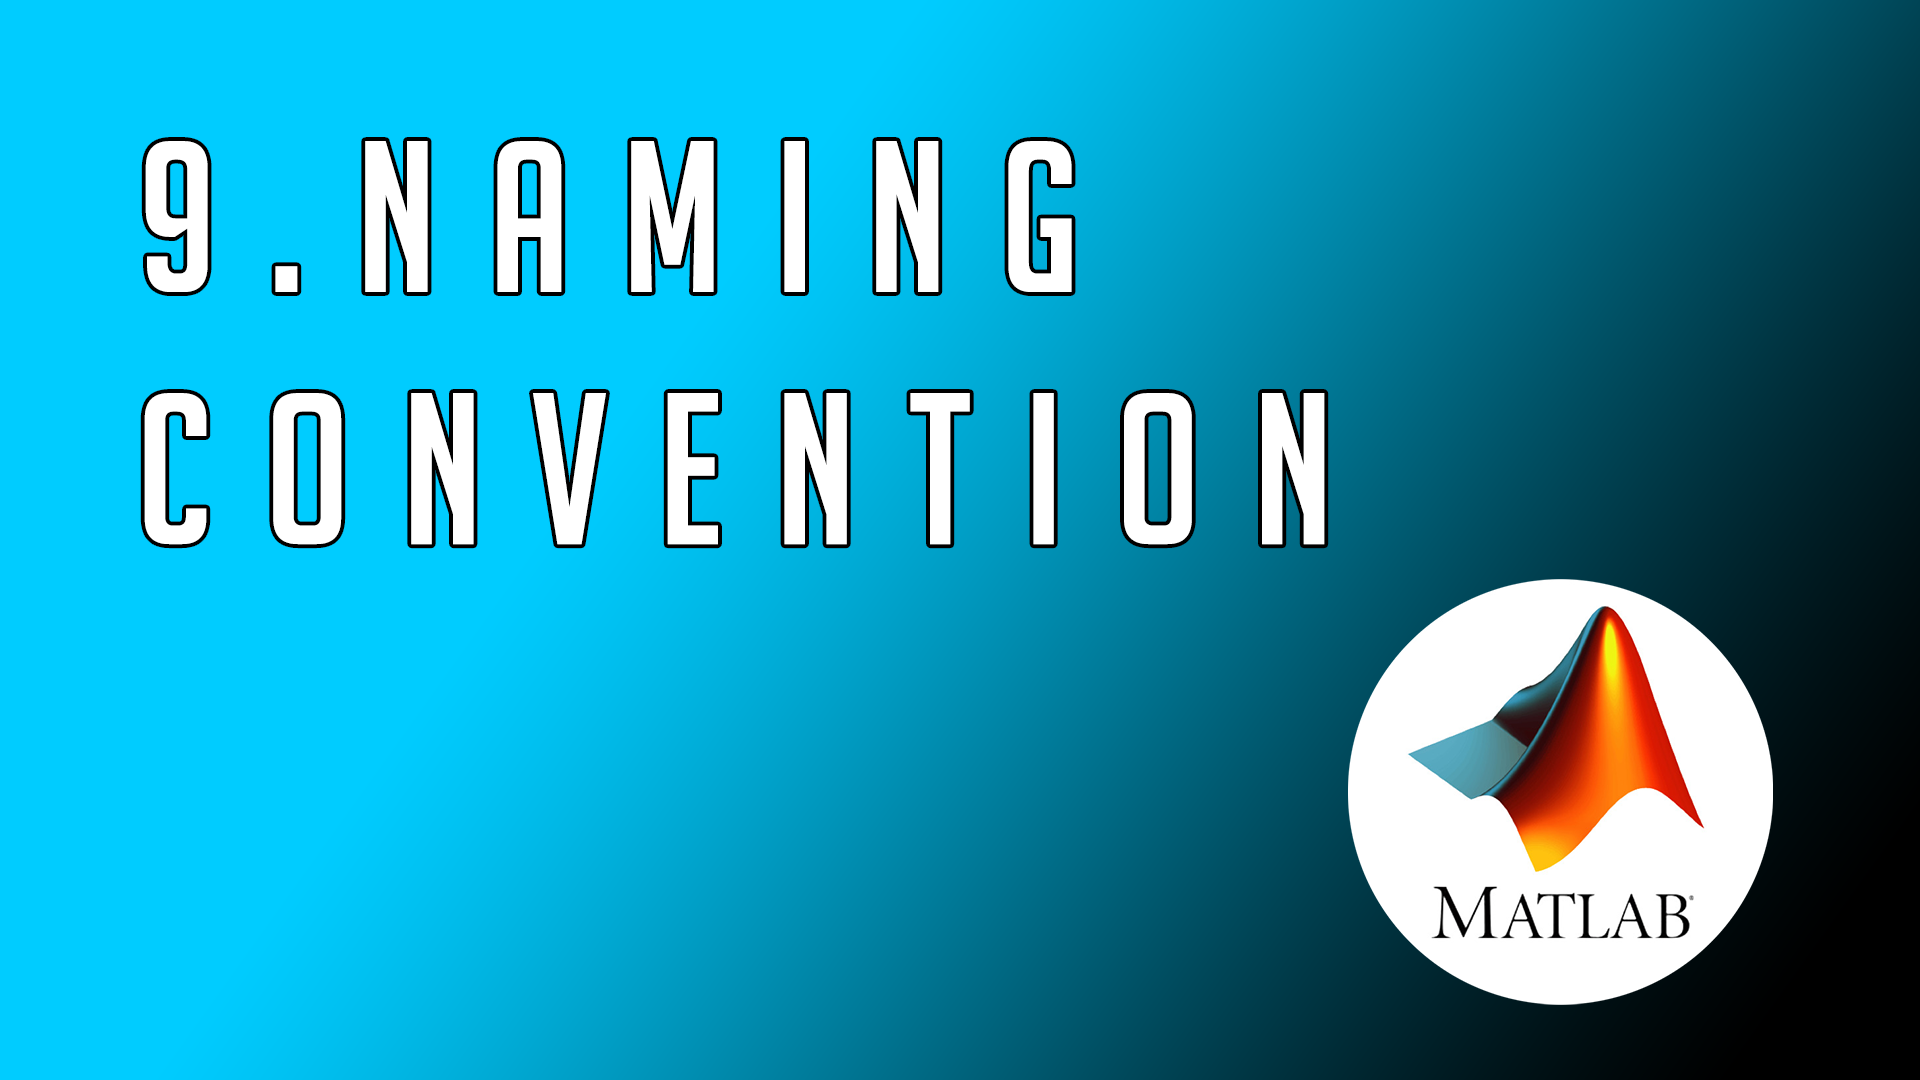
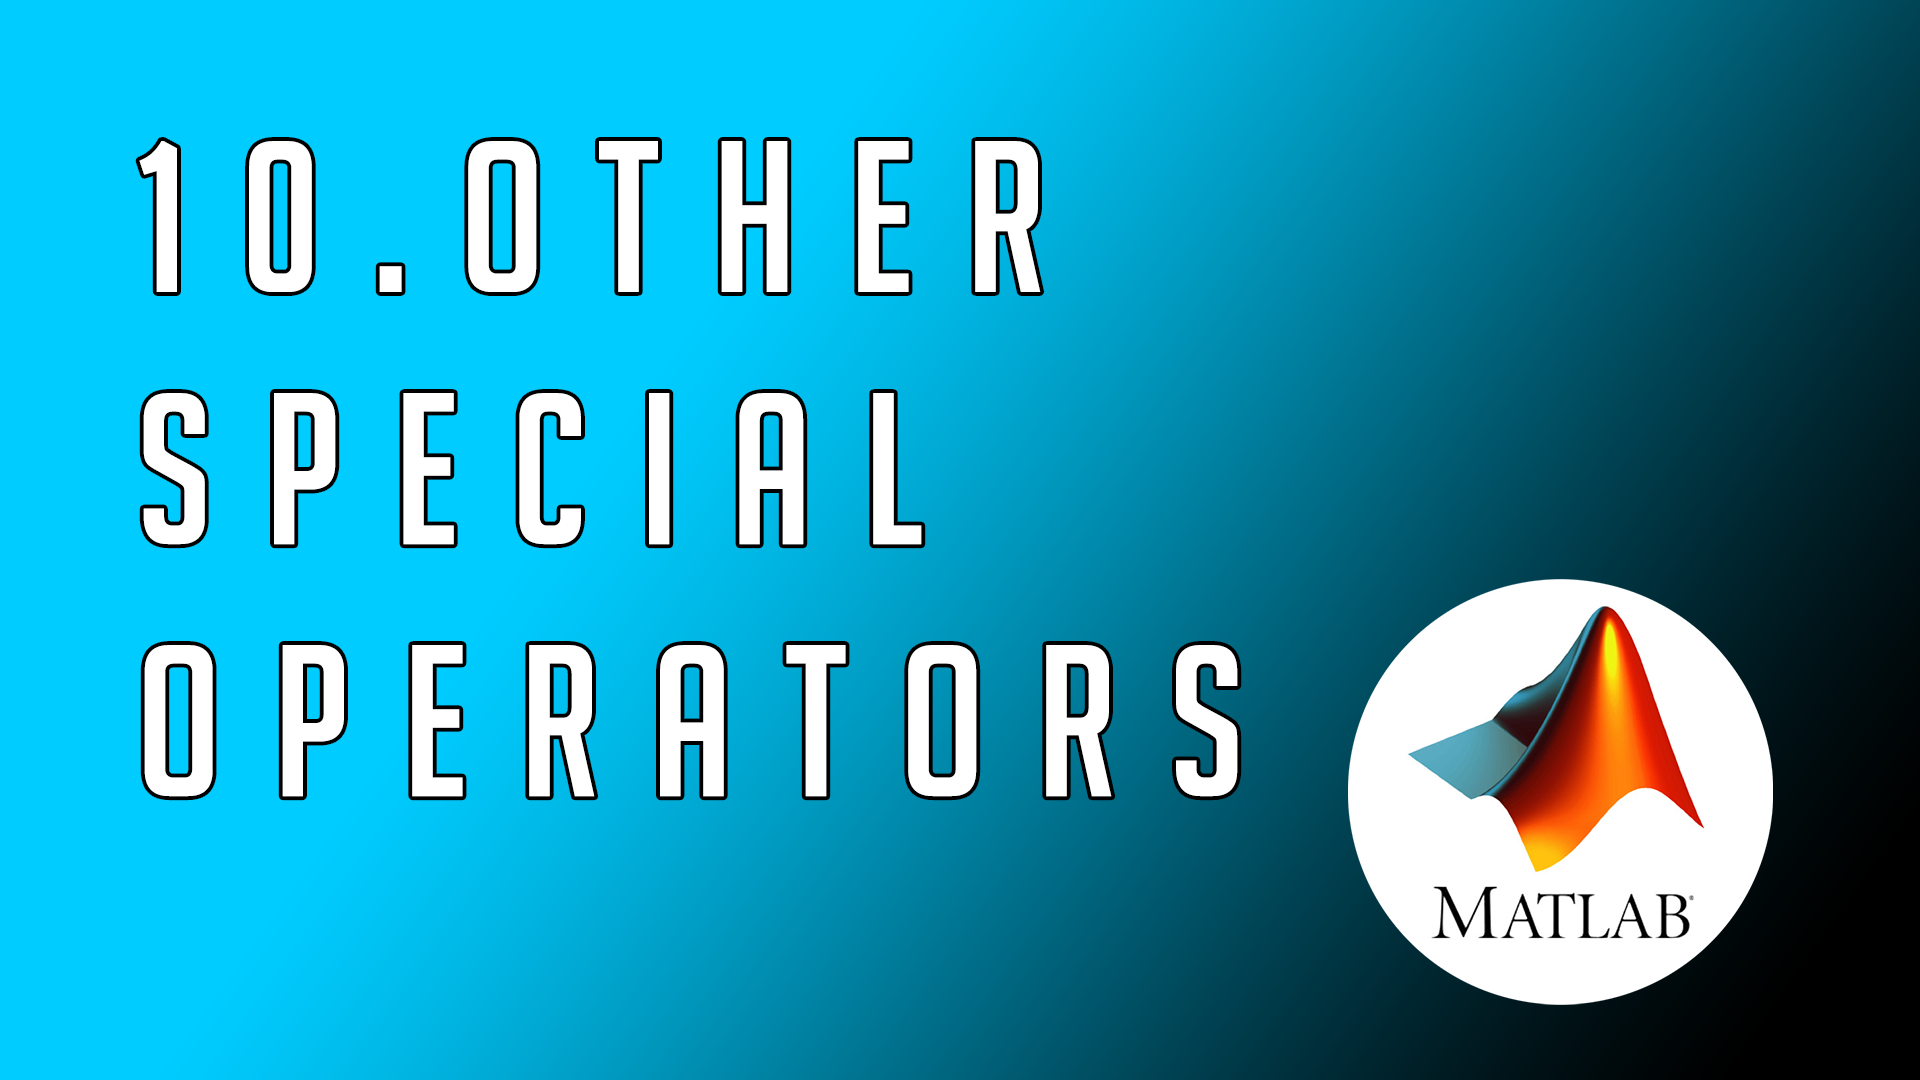
Update
Added 9th video.

diff --git a/Code/NinthVideo.m b/Code/NinthVideo.m
@@ -1,0 +1,47 @@
+% MATLAB Video #9 - Special Operators
+% October, 26th 2019
+% Jousef Murad - www.engineered-mind.com
+% MATLAB Version - R2018b
+
+clc, clear, close all
+
+%% Section 1 abs-function
+
+abs(-1);
+abs(5);
+tmp1 = randn(10);
+abs(tmp1);
+
+%% Section 2 sign-function
+
+sign(-100);
+sign(30);
+sign(0);
+sign(tmp1);
+
+%% Section 3 - Create Polynomials
+
+% Create a polynomial of 2nd order
+
+p = [1 3 2]; %x^2 + 3x + 2
+
+polyval(p, 1);
+
+polyval(p, 1:10);
+
+%% Section 4 - Finding the roots of a function
+
+numRoots = roots(p);
+
+tmp2 = polyval(p, numRoots);
+
+%% Section 5 - Find coefficients for function
+
+poly(numRoots);
+
+%% Section 6 - Merge Functions
+
+poly1 = [1 4 2];
+poly2 = [1 0 1];
+
+mergeFunc = conv(poly1,poly2) % This is NOT (!!) a multiplication but rather a concatenation

diff --git a/README.md b/README.md
@@ -115,14 +115,13 @@ All Episodes
        </tr>
        </tr>
         <tr>
-        <td width="50%"><a href="https://www.patreon.com/theengiineer"><img alt="Naming Convention" src="Images/Video9.png"/></td>
+        <td width="50%"><a href="https://www.patreon.com/theengiineer"><img alt="Other Special Operators" src="Images/Video9.png"/></td>
         <td width="50%">
             <div align="center">
-                     <a href="https://www.patreon.com/theengiineer">video (coming soon)</a> |
+                     <a href="https://youtu.be/o-aPiE7GDlg">video </a> |
                      <a href="https://www.patreon.com/theengiineer">homework (coming soon)</a> |
-                     <a href="https://www.patreon.com/theengiineer">code (coming soon)</a><br/><br/></div>
-                     <p>This video will deal with naming conventions inside of MATLAB and show you how to meet the common standard when it comes to defining variables, parameters and other relevant
-                     quantities. Duration: X minutes</p></td>
+                     <a href="https://www.patreon.com/theengiineer">code </a><br/><br/></div>
+                     <p>This video will briefly discuss the abs and sign functions and how to quickly determine the root of a polynomials, determine the coefficients and concatenate functions. Duration: X minutes</p></td>
     </tr>
        </tr>
         </tr>
@@ -131,9 +130,9 @@ All Episodes
                                           <a href="https://www.patreon.com/theengiineer">video (coming soon)</a> |
                                           <a href="https://www.patreon.com/theengiineer">homework (coming soon)</a> |
                                           <a href="https://www.patreon.com/theengiineer">code (coming soon)</a><br/><br/></div>
-                                          <p>This video will briefly discuss some other operators that can be useful when writing code like the greatest common divisor (gcd), least common divisor (lcd), how to quickly determine
-                                          the root of a polynomial, the abs and sign function. Duration: X minutes</p></td>
-        <td width="50%"><a href="https://www.patreon.com/theengiineer"><img alt="Other Special Operators" src="Images/Video10.png"/></td>
+                                          <p>This video will deal with naming conventions inside of MATLAB and show you how to meet the common standard when it comes to defining variables, parameters and other relevant
+                                                 quantities. Duration: X minutes</p></td>
+        <td width="50%"><a href="https://www.patreon.com/theengiineer"><img alt="Naming Convention" src="Images/Video10.png"/></td>
     </tr>
     </tr>
         </tr>
